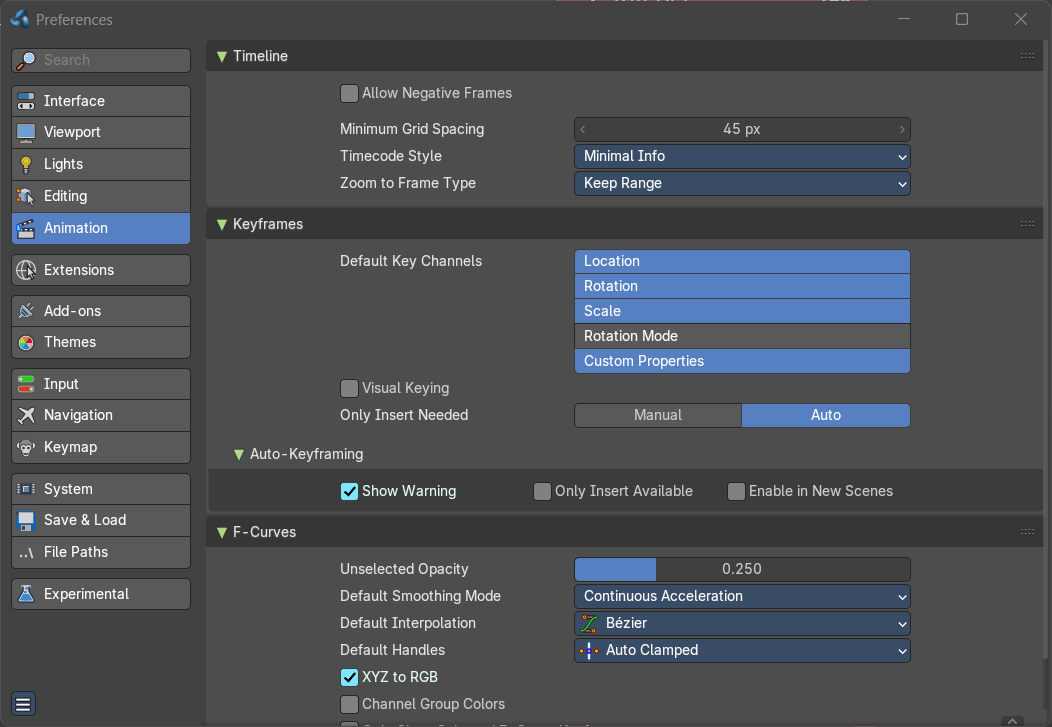
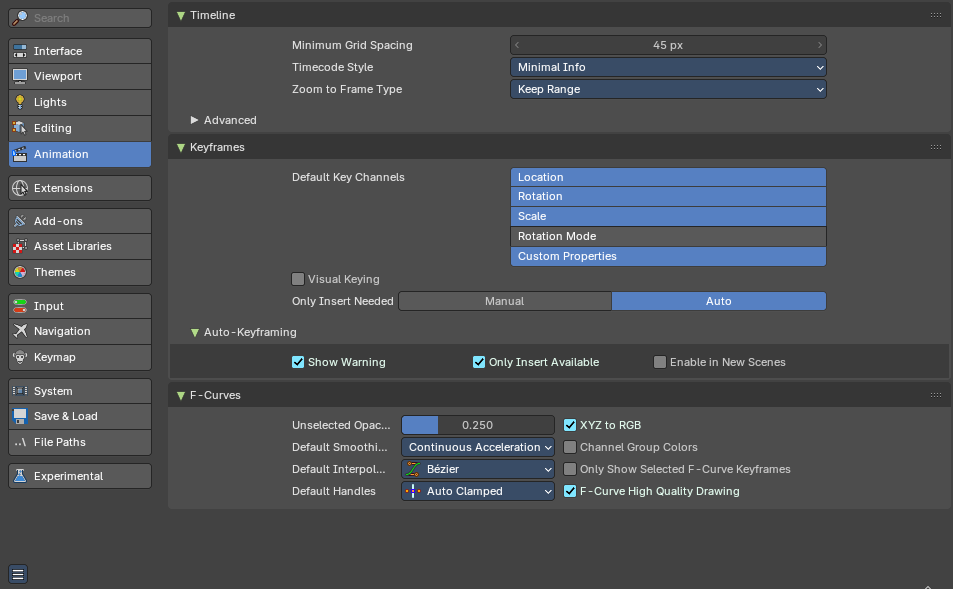
Preferences: Allow Negative Frames in Timeline > Advanced #1747
The option now lives only in the Advanced subpanel, with its warning
under the checkbox (Bforartists #7012). Removes the empty top-level
heading, documents the subpanel and refreshes the Animation capture.

diff --git a/docs2/content/editors/preferences.md b/docs2/content/editors/preferences.md
@@ -867,8 +867,6 @@ Contains the settings for the animation editors.
 
 ### Timeline
 
-#### Allow negative Frames
-
 #### Minimum Grid Spacing
 
 ![Minimum Grid Spacing](/docs2/images/editors/preferences/minimum-grid-spacing.png)
@@ -888,6 +886,20 @@ In Timeline, Dope sheet, Graph and NLE editor you can either display the keyfram
 ![Zoom To Frame Type](/docs2/images/editors/preferences/zoom-to-frame-type.png)
 
 Timeline, Dope sheet, Graph and NLE. Define how zooming to frame focuses around current frame.
+
+#### Advanced subpanel
+
+![Advanced subpanel of the Timeline panel](/docs2/images/editors/preferences/timeline-advanced.png)
+
+Settings you rarely need to change. The subpanel is closed by default.
+
+##### Allow Negative Frames
+
+Lets you set the current frame to a negative number, so the playhead can go before frame 0. This is handy when an animation needs a run-up before the shot starts, or when you line up imported data that starts below zero.
+
+The warning under the checkbox is always shown, so you see it before you turn the option on.
+
+> **Warning:** Negative frames can cause issues with audio playback and with exporters. If you run into problems there, move the animation so it starts at frame 0 or later.
 
 #### Keyframes
 
